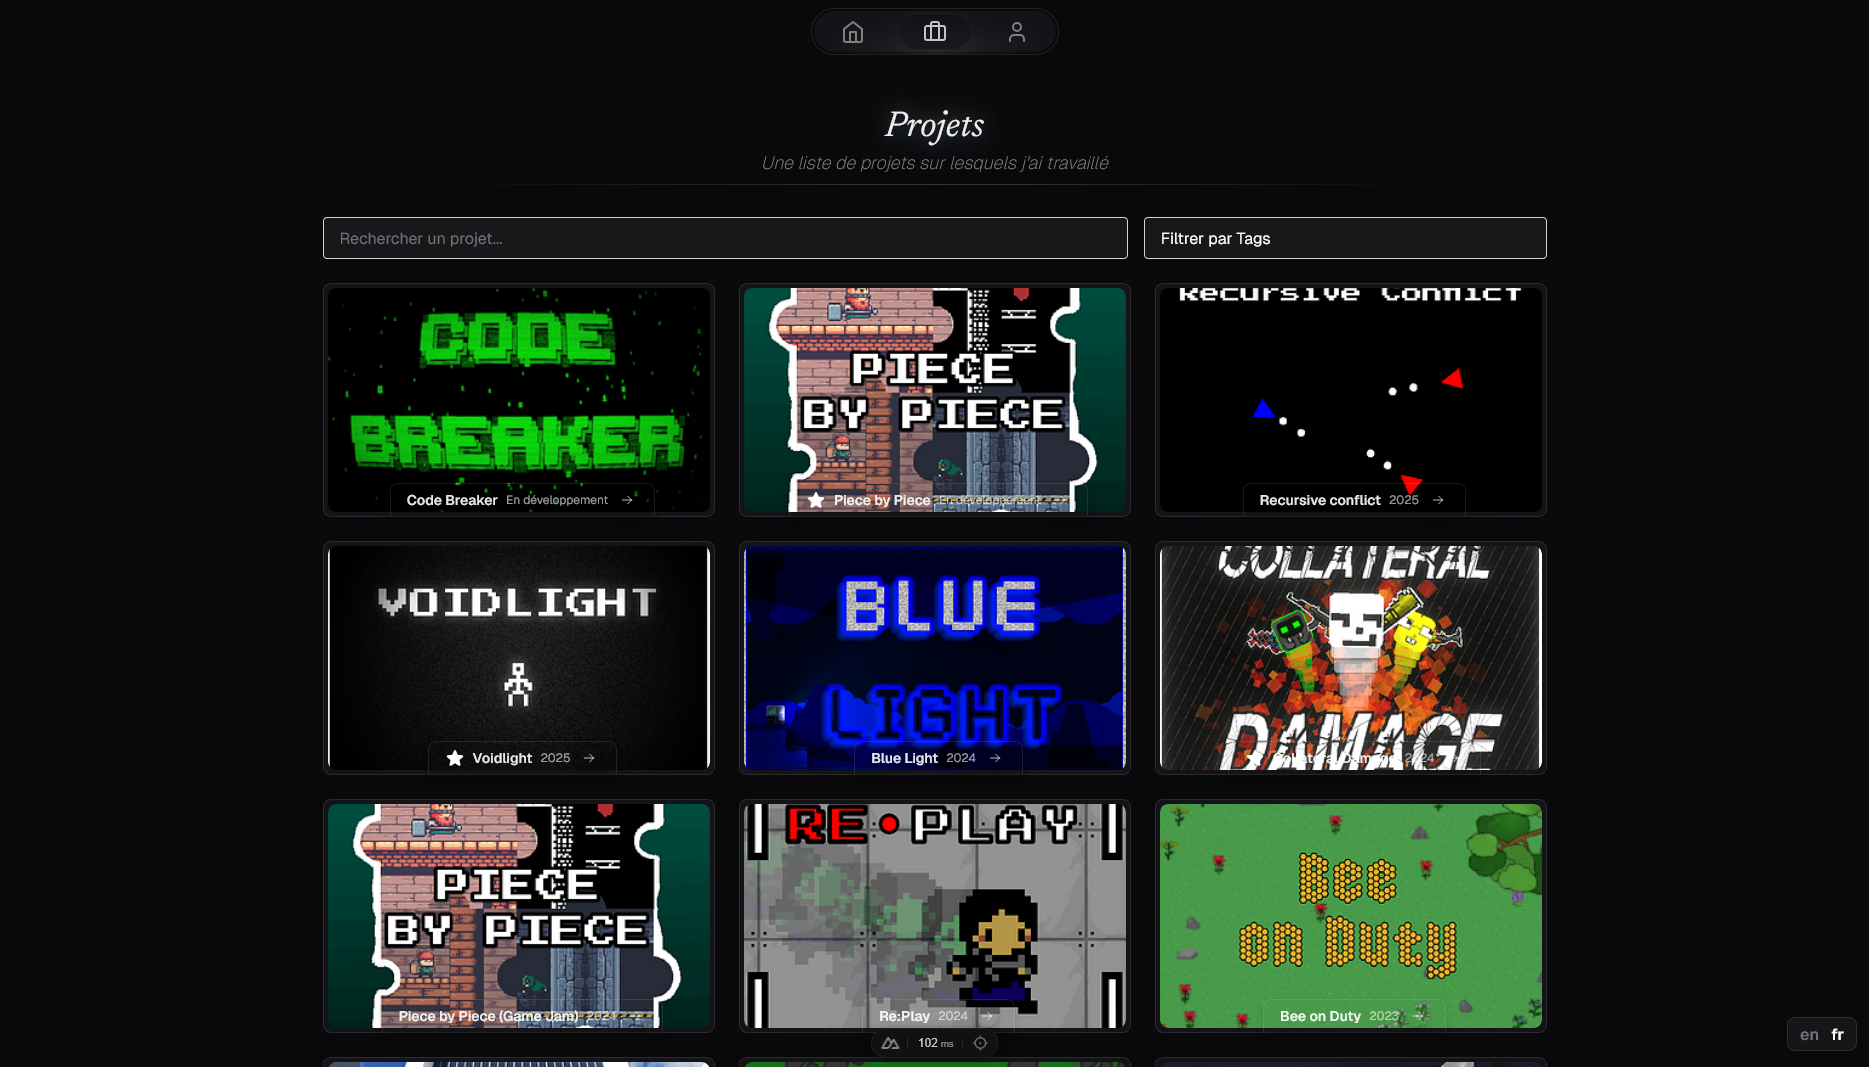
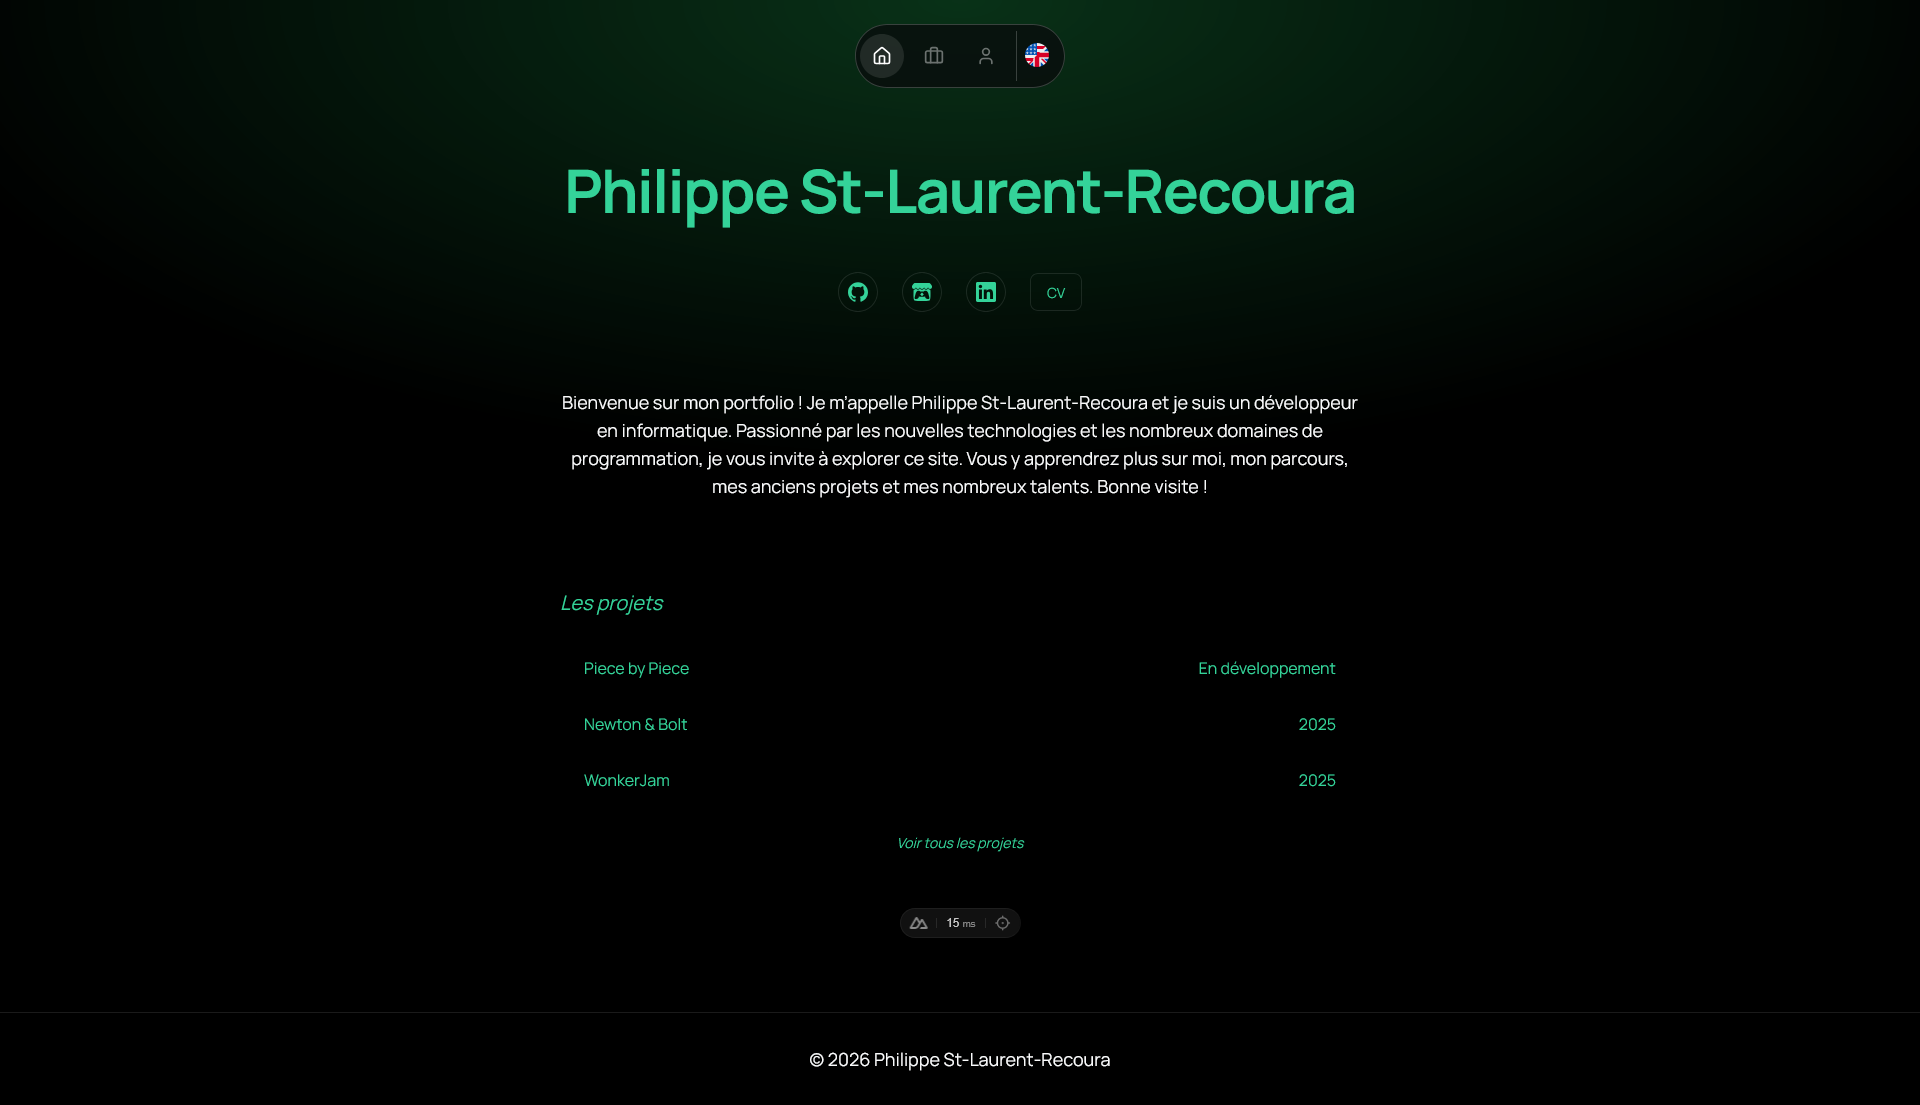
projects grid sorted by date

diff --git a/app/components/Projects/ProjectGrid.vue b/app/components/Projects/ProjectGrid.vue
@@ -2,14 +2,27 @@
 import ProjectCard from './ProjectCard.vue'
 
 const { locale } = useI18n()
+
 const { data: projects } = await useAsyncData(
   'projects',
-  () =>
-    queryCollection('projects')
+  async () => {
+    const projects = await queryCollection('projects')
       .where('path', 'LIKE', `/projects/%/${locale.value}`)
-      .all(),
-      { watch: [locale] }
+      .all()
+
+    const getReleaseOrder = (release: unknown) => {
+      if (release === 'En développement' || release === 'In development') return Number.POSITIVE_INFINITY
+      if (release === 'Abandonné') return Number.NEGATIVE_INFINITY
+      return Number(release) || 0
+    }
+
+    return projects.sort(
+      (a, b) => getReleaseOrder(b.meta.release) - getReleaseOrder(a.meta.release)
+    )
+  },
+  { watch: [locale] }
 )
+
 
 
 function projectPage(path: string) {
@@ -24,7 +37,7 @@ function projectPage(path: string) {
 </script>
 
 <template>
-  <div v-if="projects" class="grid grid-cols-1 gap-6 sm:grid-cols-2 lg:grid-cols-3">
+  <div v-if="projects" class="grid grid-cols-1 gap-6 sm:grid-cols-2 lg:grid-cols-3 w-full">
     <ProjectCard
       v-for="project in projects"
       :key="project.path"

diff --git a/app/components/Home/Projects.vue b/app/components/Home/Projects.vue
@@ -3,10 +3,21 @@
 const { locale } = useI18n()
 const { data: projects } = await useAsyncData(
   'projects',
-  () =>
-    queryCollection('projects')
+  async () => {
+    const projects = await queryCollection('projects')
       .where('path', 'LIKE', `/projects/%/${locale.value}`)
-      .all(),
+      .all()
+
+    const getReleaseOrder = (release: unknown) => {
+      if (release === 'En développement' || release === 'In development') return Number.POSITIVE_INFINITY
+      if (release === 'Abandonné') return Number.NEGATIVE_INFINITY
+      return Number(release) || 0
+    }
+
+    return projects.sort(
+      (a, b) => getReleaseOrder(b.meta.release) - getReleaseOrder(a.meta.release)
+    )
+  },
   { watch: [locale] }
 )
 

diff --git a/app/pages/projects/[slug].vue b/app/pages/projects/[slug].vue
@@ -45,8 +45,8 @@ useSeoMeta({
       <div class="flex-1" v-if="project.meta.link">
         <SeePage :project_link="project.meta.link" />
       </div>
-      <div class="flex-1" v-if="project.meta.code">
-        <SeeCode :code_link="project.meta.code" />
+      <div class="flex-1" v-if="project.meta.repo">
+        <SeeCode :code_link="project.meta.repo" />
       </div>
     </section>
 

diff --git a/app/components/Projects/ProjectCard.vue b/app/components/Projects/ProjectCard.vue
@@ -8,7 +8,7 @@ defineProps({
     required: true,
   },
   project_page: {
-    type: Object as PropType<any>,
+    type: String,
     required: true,
   }
 })

diff --git a/content/projects/pieceByPieceGameJam/fr.md b/content/projects/pieceByPieceGameJam/fr.md
@@ -2,7 +2,7 @@
 title: Piece by Piece (Game Jam)
 locale: fr
 release: 2024
-image: /images/projects/pieceByPiece.png
+image: /images/projects/pieceByPieceGamejam.png
 link: https://psonbre.itch.io/piece-by-piece
 type: "Godot"
 tags:

diff --git a/content/projects/murder/fr.md b/content/projects/murder/fr.md
@@ -1,7 +1,7 @@
 ---
 title: Murder
 locale: fr
-release: En développement
+release: 2025
 image: /images/projects/murder.jpg
 link: https://philou213.github.io/TP_Murder
 repo: https://github.com/Philou213/TP_Murder

diff --git a/content/projects/codeBreaker/fr.md b/content/projects/codeBreaker/fr.md
@@ -1,7 +1,7 @@
 ---
 title: Code Breaker
 locale: fr
-release: "En développement"
+release: "Abandonné"
 image: /images/projects/codeBreaker.png
 link: https://psonbre.itch.io/code-breaker
 type: "Construct"

diff --git a/content/projects/portfolio/fr.md b/content/projects/portfolio/fr.md
@@ -1,7 +1,7 @@
 ---
 title: Portfolio
 locale: fr
-release: 2025
+release: 2026
 image: /images/projects/portfolio.png
 repo: https://github.com/Philou213/portfolio
 type: "Web"
